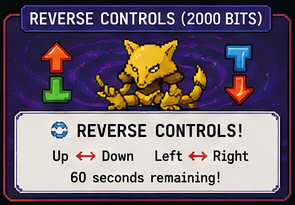
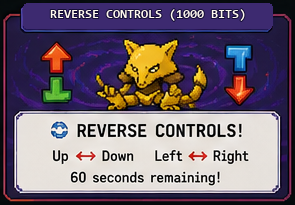
updates prices

Changed region(s): [[0.061, 0.0, 0.9458, 0.1463]]

diff --git a/test_events.py b/test_events.py
@@ -17,7 +17,6 @@ EFFECT_DURATIONS = {
     for rule in CFG.get("events", {}).get("cheer_effects", [])
 }
 EFFECT_SOUNDS = {
-    "double_votes": "double_votes.wav",
     "speed_round": "speed_round.wav",
     "chaos": "chaos.wav",
     "reverse_controls": "reverse_controls.wav",
@@ -126,11 +125,10 @@ MENU = {
     "1": ("subscriber", "NEW TRAINER JOINED!", "TestTrainer subscribed - votes count x2", {}, 5),
     "2": ("gift_sub", "A POKE BALL WAS GIFTED!", "TestTrainer gifted a sub to LuckyViewer", {"recipient": "LuckyViewer"}, 6),
     "3": ("resub", "WELCOME BACK!", "TestTrainer resubscribed for 6 months", {"months": 6}, 5),
-    "4": ("world_event", "DOUBLE VOTES", "TestTrainer used 100 Bits - DOUBLE VOTES for 30s", {"bits": 100, "effect": "double_votes"}, 5),
-    "5": ("world_event", "SPEED ROUND", "TestTrainer used 500 Bits - SPEED ROUND for 60s", {"bits": 500, "effect": "speed_round"}, 5),
-    "6": ("world_event", "CHAOS MODE", "TestTrainer used 1,000 Bits - CHAOS MODE for 60s", {"bits": 1000, "effect": "chaos"}, 5),
-    "7": ("world_event", "REVERSE CONTROLS", "TestTrainer used 2,000 Bits - REVERSE CONTROLS for 60s", {"bits": 2000, "effect": "reverse_controls"}, 5),
-    "8": ("world_event", "KING MODE", "TestTrainer used 5,000 Bits - KING MODE for 60s", {"bits": 5000, "effect": "king_mode"}, 5),
+    "4": ("world_event", "SPEED ROUND", "TestTrainer used 250 Bits - SPEED ROUND for 60s", {"bits": 250, "effect": "speed_round"}, 5),
+    "5": ("world_event", "CHAOS MODE", "TestTrainer used 500 Bits - CHAOS MODE for 60s", {"bits": 500, "effect": "chaos"}, 5),
+    "6": ("world_event", "REVERSE CONTROLS", "TestTrainer used 1,000 Bits - REVERSE CONTROLS for 60s", {"bits": 1000, "effect": "reverse_controls"}, 5),
+    "7": ("world_event", "KING MODE", "TestTrainer used 2,000 Bits - KING MODE for 60s", {"bits": 2000, "effect": "king_mode"}, 5),
 }
 
 ALIASES = {
@@ -138,20 +136,18 @@ ALIASES = {
     "gift": "2",
     "gift_sub": "2",
     "resub": "3",
-    "double": "4",
-    "double_votes": "4",
-    "speed": "5",
-    "speed_round": "5",
-    "chaos": "6",
-    "reverse": "7",
-    "reverse_controls": "7",
-    "king": "8",
-    "king_mode": "8",
+    "speed": "4",
+    "speed_round": "4",
+    "chaos": "5",
+    "reverse": "6",
+    "reverse_controls": "6",
+    "king": "7",
+    "king_mode": "7",
 }
 
 
 def play_all():
-    for key in ("1", "2", "3", "4", "5", "6", "7", "8"):
+    for key in ("1", "2", "3", "4", "5", "6", "7"):
         send(*MENU[key])
         time.sleep(5.7)
 
@@ -175,7 +171,7 @@ if len(sys.argv) > 1:
     raise SystemExit
 
 while True:
-    print("\n1 Sub  2 Gift  3 Resub  4 Double  5 Speed  6 Chaos  7 Reverse  8 King  a All  c Clear  q Quit")
+    print("\n1 Sub  2 Gift  3 Resub  4 Speed  5 Chaos  6 Reverse  7 King  a All  c Clear  q Quit")
     choice = input("> ").strip().lower()
     if choice == "q":
         break

diff --git a/main.py b/main.py
@@ -199,10 +199,10 @@ class App:
 
     def activate_effect(self,effect,duration,user="",amount=0):
         self.effects[effect]={"end":time.monotonic()+duration,"source":user,"amount":amount}
-        labels={"double_votes":"DOUBLE VOTES","speed_round":"SPEED ROUND","chaos":"CHAOS MODE",
+        labels={"speed_round":"SPEED ROUND","chaos":"CHAOS MODE",
                 "reverse_controls":"REVERSE CONTROLS",
                 "king_mode":"KING MODE"}
-        sound={"double_votes":"double_votes.wav","speed_round":"speed_round.wav",
+        sound={"speed_round":"speed_round.wav",
                "chaos":"chaos.wav",
                "reverse_controls":"reverse_controls.wav",
                "king_mode":"gym_win.wav"}.get(effect)
@@ -219,7 +219,6 @@ class App:
                 self.clear_round_votes()
                 self.round_end=time.monotonic()+self.base_window
         dialogue={
-            "double_votes":("Professor Oak","The trainers are fired up! Everyone's vote power has doubled!"),
             "speed_round":("Bike Shop","Hold on tight! Voting just got a whole lot faster!"),
             "chaos":("Team Rocket","Prepare for trouble! Every command goes through right now!"),
             "reverse_controls":("Psychic Trainer","Your sense of direction feels... backwards."),
@@ -229,9 +228,7 @@ class App:
             threading.Timer(1.0, lambda: self.events.dialogue(*dialogue)).start()
 
     def weight(self,tags):
-        w=CFG["voting"]["subscriber_weight"] if is_sub(tags) else CFG["voting"]["regular_weight"]
-        if self.effect_active("double_votes"): w*=2
-        return w
+        return CFG["voting"]["subscriber_weight"] if is_sub(tags) else CFG["voting"]["regular_weight"]
 
     def on_notice(self,tags):
         msgid=tags.get("msg-id","")
@@ -269,7 +266,7 @@ class App:
             self.activate_effect(rule["effect"],rule["duration_seconds"],user,bits)
         else:
             self.events.alert("cheer","TRAINER USED AN ITEM!",
-                              f"{user} used {bits:,} Bits",{"bits":bits},4.0,"double_votes.wav")
+                              f"{user} used {bits:,} Bits",{"bits":bits},4.0)
             self.db.record_event(user,bits)
 
     def mapped_key(self,cmd):

diff --git a/test_stream_system.py b/test_stream_system.py
@@ -12,11 +12,11 @@ while True:
     print("""
 1 Sub alert
 2 Gift sub
-3 World event: Double Votes
+3 World event: Speed Round
 4 Trainer Card
 5 Gym Challenge start
 6 Gym Challenge cleared
-7 NPC: Professor Oak
+7 NPC: Bike Shop
 8 NPC: Team Rocket
 9 Boot screen step
 q Quit
@@ -25,10 +25,10 @@ q Quit
     if c=="q":break
     if c=="1":write(EP,{"kind":"subscriber","title":"NEW TRAINER JOINED!","subtitle":"TestTrainer subscribed • votes count ×2","extra":{},"duration":4})
     elif c=="2":write(EP,{"kind":"gift_sub","title":"A POKé BALL WAS GIFTED!","subtitle":"TestTrainer gifted 5 subs!","extra":{},"duration":4.5})
-    elif c=="3":write(EP,{"kind":"world_event","title":"DOUBLE VOTES","subtitle":"Active for 30 seconds","extra":{"effect":"double_votes"},"duration":3.2})
+    elif c=="3":write(EP,{"kind":"world_event","title":"SPEED ROUND","subtitle":"Active for 60 seconds","extra":{"effect":"speed_round"},"duration":3.2})
     elif c=="4":write(EP,{"kind":"trainer_card","title":"TRAINER Lv. 12","subtitle":"TestTrainer • 1,240 votes • 3 events","extra":{"xp_into_level":42,"xp_per_level":100,"weighted_votes":1750},"duration":6})
     elif c=="5":write(EP,{"kind":"gym_start","title":"GYM CHALLENGE!","subtitle":"Cast 75 weighted votes before time runs out!","extra":{},"duration":5})
-    elif c=="6":write(EP,{"kind":"gym_win","title":"CHALLENGE CLEARED!","subtitle":"Reward: DOUBLE VOTES","extra":{},"duration":5})
-    elif c=="7":write(DP,{"speaker":"Professor Oak","text":"The trainers are fired up! Everyone's vote power has doubled!","duration":4.5})
+    elif c=="6":write(EP,{"kind":"gym_win","title":"CHALLENGE CLEARED!","subtitle":"Reward: SPEED ROUND","extra":{},"duration":5})
+    elif c=="7":write(DP,{"speaker":"Bike Shop","text":"Hold on tight! Voting just got a whole lot faster!","duration":4.5})
     elif c=="8":write(DP,{"speaker":"Team Rocket","text":"Prepare for trouble! Every winning move gets an extra A press!","duration":4.5})
     elif c=="9":write(BP,{"step":"CONNECTING TO TWITCH","detail":"Opening trainer network…","done":False})

diff --git a/overlay_app.py b/overlay_app.py
@@ -37,7 +37,6 @@ DARK2 = QColor("#121617")
 FOOTER = QColor("#0A0D0F")
 VOTE_COLORS = [RED, ORANGE, GREEN, BLUE, PURPLE]
 ALERT_CARD_EFFECTS = {
-    "double_votes",
     "speed_round",
     "chaos",
     "reverse_controls",
@@ -710,7 +709,6 @@ class Overlay(QWidget):
         p.save()
         p.setOpacity(max(0.0, min(1.0, alpha / 255)))
         glow = {
-            "double_votes": QColor(255, 208, 62, 44),
             "speed_round": QColor(68, 176, 255, 50),
             "chaos": QColor(202, 38, 30, 54),
             "reverse_controls": QColor(150, 98, 235, 48),
@@ -757,8 +755,6 @@ class Overlay(QWidget):
                 color = QColor(172, 126 + (i % 3) * 30, 255, int(alpha * (1 - phase) * .72))
             elif effect == "speed_round":
                 color = QColor(160, 225, 255, int(alpha * (1 - phase) * .72))
-            elif effect == "double_votes":
-                color = QColor(255, 220 + (i % 2) * 20, 68, int(alpha * (1 - phase) * .76))
             else:
                 color = QColor(255, 186 + (i % 3) * 20, 48, int(alpha * (1 - phase) * .82))
             p.setBrush(QBrush(color))

diff --git a/TWITCH_PANELS.md b/TWITCH_PANELS.md
@@ -24,20 +24,17 @@ Each round lasts about 3 seconds. The command with the highest **weighted vote p
 
 Twitch Bits can temporarily change the rules of the game.
 
-**100 Bits — Double Votes**
-Everyone's vote power doubles for 30 seconds.
-
-**500 Bits — Speed Round**
+**250 Bits — Speed Round**
 Voting windows become 1 second for 60 seconds.
 
-**1000 Bits — Chaos Mode**
-The winning command executes, then the game also presses A once each round for 60 seconds.
-
-**1500 Bits — Anarchy Mode**
+**500 Bits — Chaos Mode**
 Valid commands execute instantly for 60 seconds.
 
-**2000 Bits — Reverse Controls**
+**1000 Bits — Reverse Controls**
 Up/Down and Left/Right are swapped for 60 seconds.
+
+**2000 Bits — King Mode**
+One viewer controls the game for 60 seconds.
 
 Active effects are always shown on the stream overlay with a countdown.
 
@@ -66,7 +63,7 @@ For v6, these stats are intentionally removed from the permanent overlay to keep
 The stream uses democracy voting. Only the command with the highest weighted percentage executes when the timer ends.
 
 **Do subscribers control the game more?**
-Subscribers receive a small perk: their vote counts as 2 instead of 1. They still only have one active vote per round.
+Subscribers receive a small perk: their vote counts as 2 instead of 1. Gifted subs give that perk to the recipient. They still only have one active vote per round.
 
 **Can I change my vote?**
 Yes. Enter another valid command before the voting timer ends.
